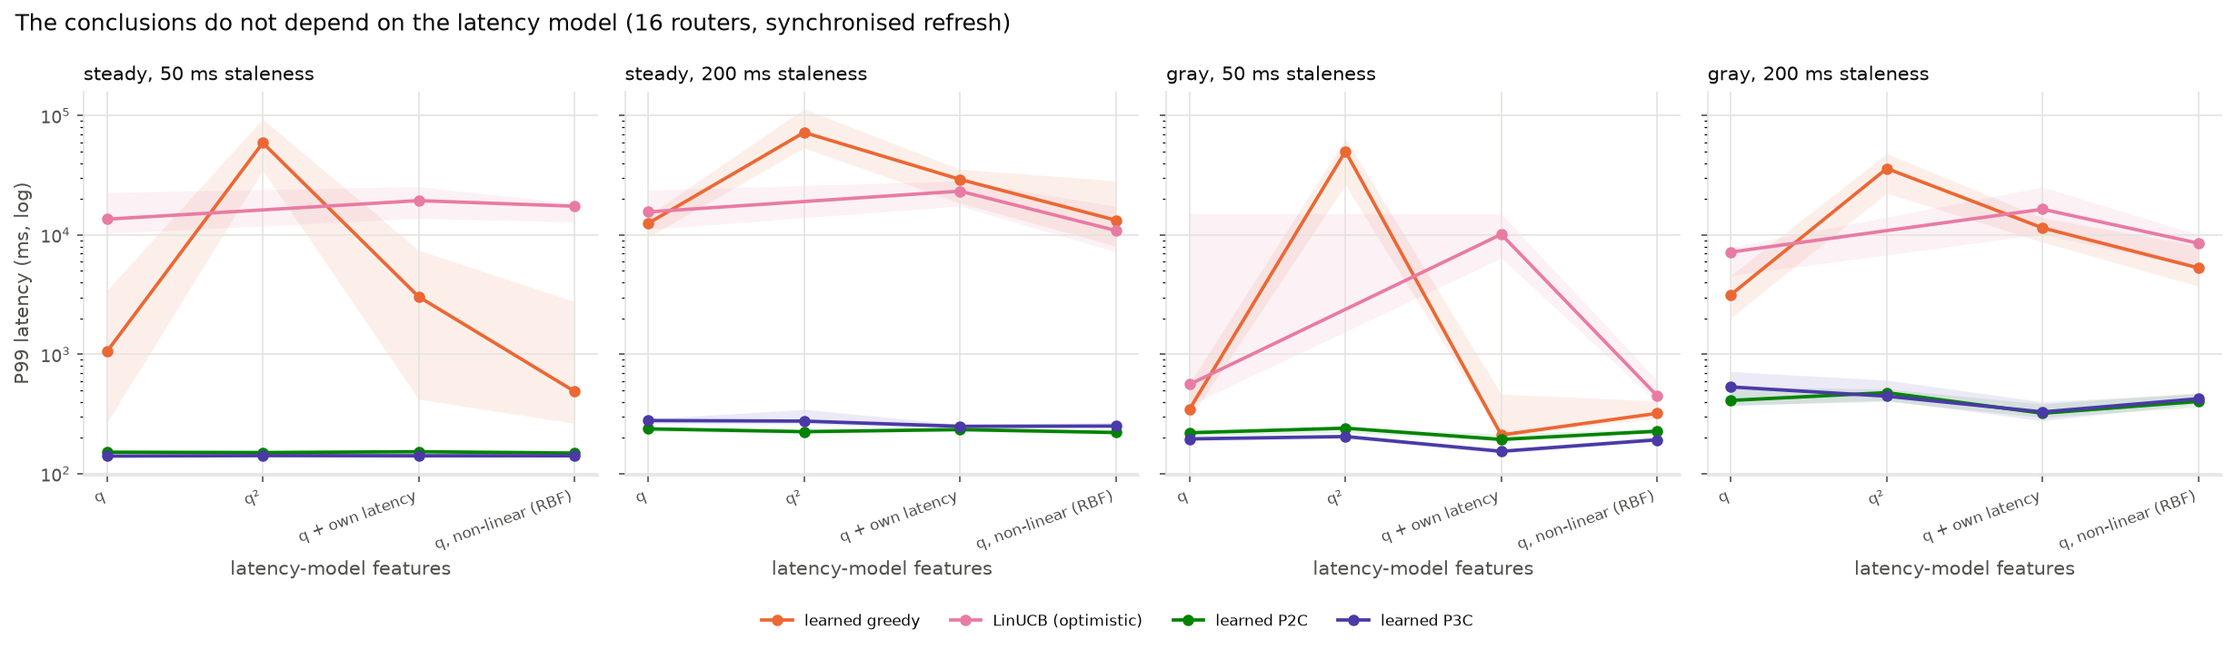
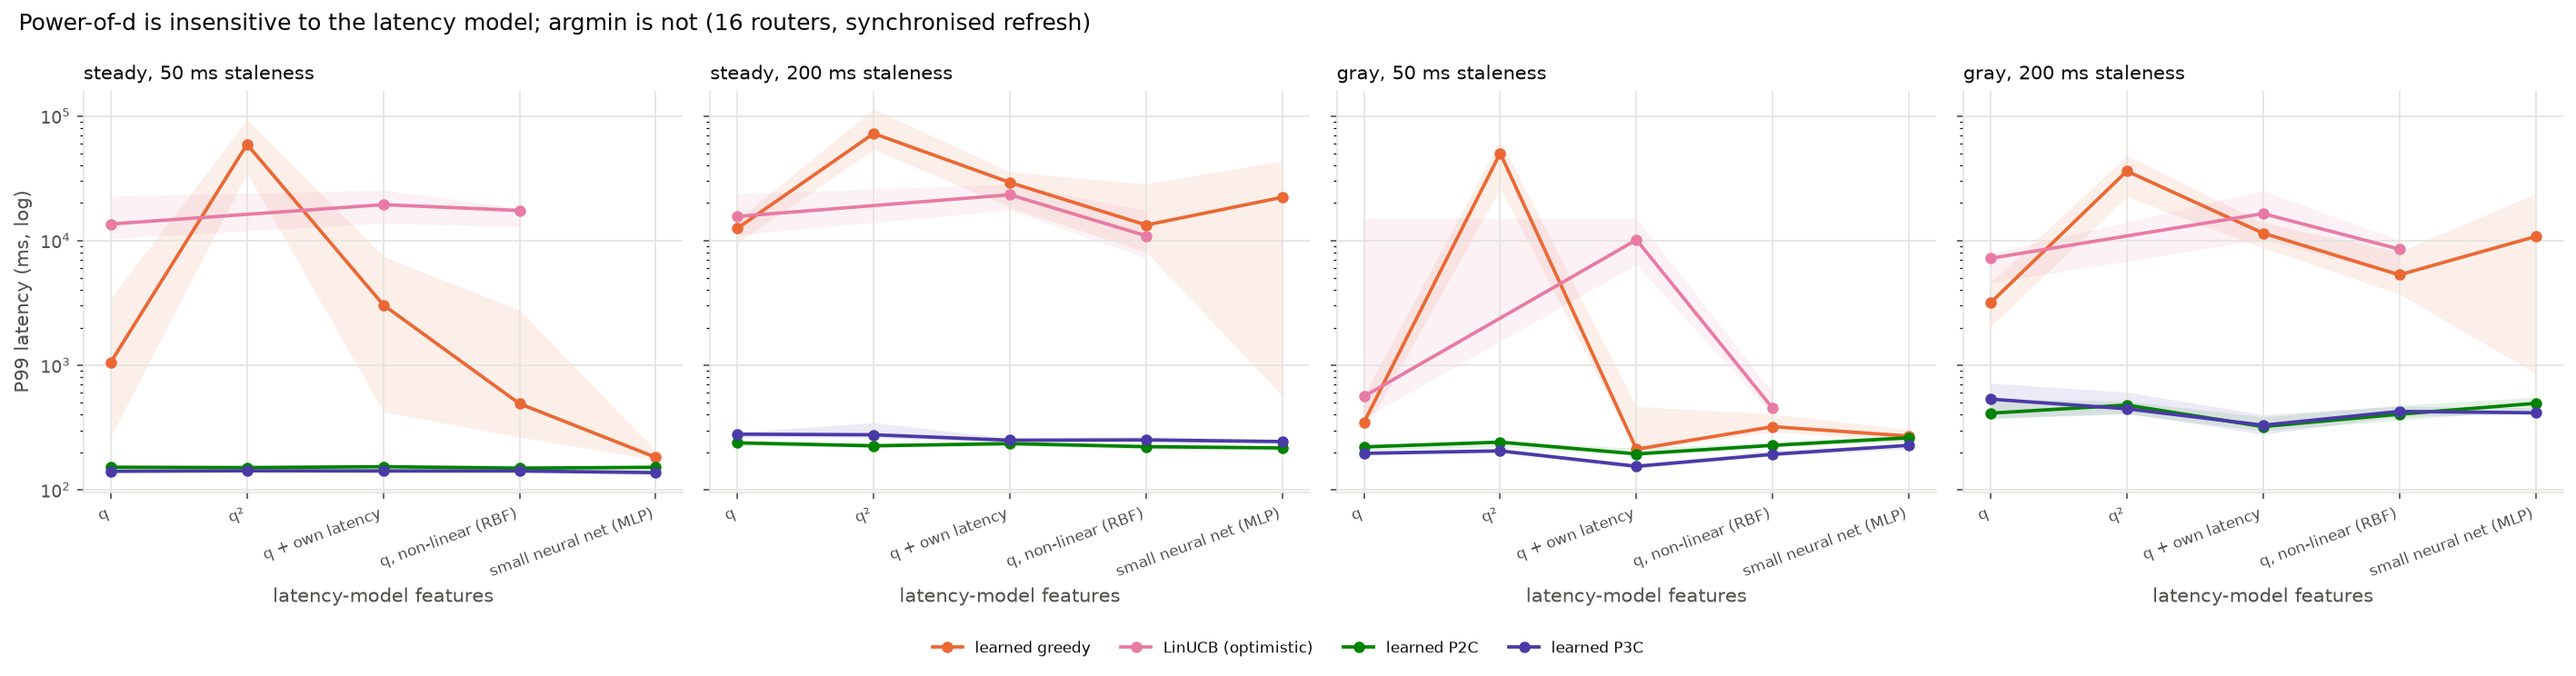
Neural-net learner result: correct 'learner is not the problem' claim, update ablation, figure title, README, tests
Claude-Session: https://claude.ai/code/session_016hoAwEeVxLn7p7QKGygUAR

diff --git a/paper/main.tex b/paper/main.tex
@@ -55,8 +55,8 @@ information \emph{herds}: every router picks the same server. We show that learn
 with 16 routers and 50\,ms-stale state, argmin routing on learned latency predictions has a P99 of 1.1\,s against 0.8\,s for
 join-the-shortest-queue, and 12.5\,s against 3.1\,s at 200\,ms. The cause is not the learner. A burst bound explains it: any policy that
 is a deterministic function of the shared snapshot sends a whole refresh window to one server, whereas restricting each request to candidates drawn
-independently of the snapshot caps a server's burst at $\kappa\lambda\Delta$; measured burst shares agree with both statements. Richer latency models
-(quadratic, non-linear, optimistic, a small neural network) do not remove herding and can worsen it. Learned power-of-$d$ routing does remove it: without probes it
+independently of the snapshot caps a server's burst at $\kappa\lambda\Delta$; measured burst shares agree with both statements. A richer latency model helps only in some regimes: a small neural network brings
+50\,ms-stale argmin P99 down to 0.18\,s, but it still herds with synchronised 200\,ms-stale state (22\,s median), and quadratic and optimistic variants make herding worse. Learned power-of-$d$ routing does remove it: without probes it
 keeps steady-state P99 between 108 and 282\,ms across 28 combinations of staleness, router count and refresh phase, and with three live probes it
 matches an oracle that knows every server's speed (84 vs.\ 83\,ms) and beats a Prequal-style prober at equal probe cost under a gray failure
 (112 vs.\ 144\,ms). In a case study of LLM serving with prefix caches, a locality-preserving variant avoids tuning an affinity threshold on synthetic
@@ -97,8 +97,8 @@ multi-process prototype\fi. Contributions:
 \begin{enumerate}
 \item \textbf{The failure and its cause.} Argmin routing on learned latency predictions herds \emph{worse} than JSQ under stale shared
   state, desynchronising refresh phases does not fix it once there are many routers, and a control-plane interval adds staleness of its own
-  (\cref{sec:eval-herding,sec:eval-epoch}). Richer models, optimism and a small neural network do not remove it
-  (\cref{sec:eval-models}). A burst bound explains why: a deterministic function of the snapshot sends a whole refresh window to one
+  (\cref{sec:eval-herding,sec:eval-epoch}). Richer models do not reliably remove it: a quadratic term and optimism make it worse, and a small neural network fixes mild staleness but not
+  synchronised 200\,ms-stale state (\cref{sec:eval-models}). A burst bound explains why: a deterministic function of the snapshot sends a whole refresh window to one
   server, while candidates drawn independently of the snapshot cap a server's burst at $\kappa_s\lambda\Delta$
   (\cref{sec:theory,sec:eval-burst}).
 \item \textbf{The remedy, and a comparison against probing.} Learned power-of-$d$ and an age-aware stochastic split keep tails flat across staleness,
@@ -357,7 +357,7 @@ hold only about 19 requests and sampling noise raises the busiest share.
 \label{sec:eval-models}
 A natural objection is that the learner is too simple. We repeat the
 comparison with a quadratic queue term, with the router's own smoothed latency
-for each server as a third feature, and with a non-linear radial-basis function of the queue length, and with an optimistic (LinUCB-style,
+for each server as a third feature, with a small neural network, and with a non-linear radial-basis function of the queue length, and with an optimistic (LinUCB-style,
 lower-confidence-bound) learner, at 50 and 200\,ms staleness with 16
 routers. \Cref{tab:models} summarises the steady-state results
 (\cref{fig:models} in the appendix has the full set).
@@ -376,17 +376,18 @@ queue only            & 1{,}055 & 151 / 141 & 12{,}537 & 238 / 279\\
 + queue$^2$           & 59{,}180 & 150 / 142 & 72{,}354 & 225 / 276\\
 + own latency         & 3{,}044 & 153 / 141 & 29{,}242 & 234 / 250\\
 + non-linear (RBF)    & 490 & 149 / 141 & 13{,}316 & 222 / 251\\
+small neural net      & 182 & 151 / 137 & 22{,}259 & 216 / 243\\
 LinUCB (queue)        & 13{,}568 & -- & 15{,}618 & --\\
 LinUCB (+ own lat.)& 19{,}418 & -- & 23{,}312 & --\\
 \bottomrule
 \end{tabular}
 \end{table}
 A richer model never rescues argmin routing, and the quadratic one makes it
-far worse, because its fit oscillates with the herding it causes. A non-linear fit helps argmin at 50\,ms (0.5\,s) but not at 200\,ms (13.3\,s). Optimism
-herds too (13.6\,s at 50\,ms). Power-of-$d$ ranges over 141--153\,ms at 50\,ms
-and 222--279\,ms at 200\,ms regardless of the model. This matches
+far worse, because its fit oscillates with the herding it causes. A non-linear fit helps argmin at 50\,ms (0.5\,s) but not at 200\,ms (13.3\,s). A small neural network (one hidden layer of 32 units over a one-hot server and the queue length, trained online with Adam on a replay buffer) is the best argmin learner at 50\,ms (0.18\,s) and survives unsynchronised 200\,ms state (0.37\,s, against 6.1\,s for the linear model), but with synchronised 200\,ms-stale state its median is 22\,s with an interquartile range from 0.6 to 44\,s: across seeds it sometimes herds and sometimes does not. So a better learner moves the boundary of the failure; it does not remove it. Optimism
+herds too (13.6\,s at 50\,ms). Power-of-$d$ ranges over 137--153\,ms at 50\,ms
+and 216--279\,ms at 200\,ms regardless of the model. This matches
 \cref{prop:stampede}: herding is a property of acting deterministically on
-common information, not of the learner.
+common information, which a better learner can postpone but not remove.
 
 \subsection{Control intervals are hidden staleness}
 \label{sec:eval-epoch}
@@ -691,9 +692,10 @@ intervals or not at all.
 
 \section{Limitations}
 Our backends are single-server FIFO queues; real backends are multi-core.
-Our latency models are linear, and although the quadratic, own-latency and
-optimistic variants do not change the conclusions, a deep model trained on
-rich request features might. The LLM-serving simulator models prefill
+Our default latency models are linear. Quadratic, own-latency, optimistic,
+non-linear and one small neural network do not remove herding, but the neural
+network moves its boundary (it handles 50\,ms-stale state), so a stronger model
+trained on rich request features might move it further; we did not test one. The LLM-serving simulator models prefill
 replicas only: there is no batching, no decode phase, no KV-cache memory
 pressure beyond a prefix count, and one load signal (queue length). Its
 synthetic constants (8{,}000 tokens/s, Zipf popularity) are plausible, not measured; the

diff --git a/research/analyze.py b/research/analyze.py
@@ -567,7 +567,7 @@ def models_section(out, df: pd.DataFrame) -> None:
         _axes_style(ax, "latency-model features", "P99 latency (ms, log)" if ax is axes[0] else "")
     h, l = axes[0].get_legend_handles_labels()
     fig.legend(h, l, frameon=False, fontsize=8, labelcolor=TEXT, loc="upper center", bbox_to_anchor=(0.5, 0.0), ncol=4)
-    fig.suptitle("The conclusions do not depend on the latency model (16 routers, synchronised refresh)",
+    fig.suptitle("Power-of-d is insensitive to the latency model; argmin is not (16 routers, synchronised refresh)",
                  color=TEXT, fontsize=12, x=0.01, ha="left")
     fig.tight_layout()
     fig.savefig(os.path.join(FIGURES, "fig14_models.png"), dpi=150, facecolor="white", bbox_inches="tight")

diff --git a/tests/test_research_sim.py b/tests/test_research_sim.py
@@ -233,3 +233,11 @@ def test_richer_features_are_recorded_and_learned():
     assert len(x) == 3 and x[0] == 1.0 and x[1] == float([3, 0][s])
     d.observe(s, 0.05, x, 0.1)
     assert d._ewma[s] == pytest.approx(5.0)    # latency 0.05 s / scale 0.01 s
+
+
+def test_mlp_learner_runs_deterministically_and_learns():
+    from research.sim import Scenario, simulate
+    sc = Scenario(staleness=0.05, num_dispatchers=4, duration=6.0, warmup=1.0)
+    a = simulate(sc, "p2c_learned_mlp", seed=1)
+    b = simulate(sc, "p2c_learned_mlp", seed=1)
+    assert a["p99_ms"] == b["p99_ms"] and a["p99_ms"] < 1000.0

diff --git a/research/results/summary.md b/research/results/summary.md
@@ -1141,6 +1141,7 @@
 | greedy_q2 | 59,180 [34,733–93,679] | 72,354 [53,727–113,777] |
 | greedy_ewma | 3,044 [421–7,470] | 29,242 [18,525–35,611] |
 | greedy_rbf | 490 [264–2,768] | 13,316 [8,066–28,511] |
+| greedy_mlp | 182 [173–205] | 22,259 [564–43,663] |
 | linucb | 13,568 [10,322–22,724] | 15,618 [11,140–23,706] |
 | linucb_ewma | 19,418 [13,765–25,415] | 23,312 [17,500–28,454] |
 | linucb_rbf | 17,432 [12,877–18,320] | 10,918 [7,225–17,447] |
@@ -1148,10 +1149,12 @@
 | p2c_learned_q2 | 150 [145–155] | 225 [218–234] |
 | p2c_learned_ewma | 153 [145–157] | 234 [226–242] |
 | p2c_learned_rbf | 149 [142–159] | 222 [212–228] |
+| p2c_learned_mlp | 151 [144–154] | 216 [210–224] |
 | p3c_learned | 141 [137–145] | 279 [262–288] |
 | p3c_learned_q2 | 142 [139–146] | 276 [261–346] |
 | p3c_learned_ewma | 141 [136–146] | 250 [239–259] |
 | p3c_learned_rbf | 141 [137–143] | 251 [248–269] |
+| p3c_learned_mlp | 137 [132–141] | 243 [231–249] |
 | ts | 201 [186–220] | 2,585 [1,208–8,497] |
 
 ## Model ablation, steady, unsynchronised refresh, 16 routers: P99 (ms)
@@ -1162,6 +1165,7 @@
 | greedy_q2 | 49,446 [25,445–72,059] | 53,902 [40,747–70,511] |
 | greedy_ewma | 1,168 [174–3,469] | 13,808 [6,121–18,059] |
 | greedy_rbf | 176 [165–274] | 7,845 [3,843–9,573] |
+| greedy_mlp | 152 [147–156] | 372 [323–17,904] |
 | linucb | 14,921 [2,337–16,289] | 27,260 [15,955–38,506] |
 | linucb_ewma | 19,761 [16,280–20,850] | 19,018 [15,688–37,666] |
 | linucb_rbf | 400 [229–22,138] | 29,451 [18,018–47,907] |
@@ -1169,10 +1173,12 @@
 | p2c_learned_q2 | 144 [138–149] | 198 [188–206] |
 | p2c_learned_ewma | 146 [141–150] | 193 [190–204] |
 | p2c_learned_rbf | 142 [136–147] | 197 [194–201] |
+| p2c_learned_mlp | 143 [137–145] | 197 [186–200] |
 | p3c_learned | 125 [120–128] | 202 [190–208] |
 | p3c_learned_q2 | 130 [123–134] | 204 [195–216] |
 | p3c_learned_ewma | 126 [123–127] | 197 [190–204] |
 | p3c_learned_rbf | 124 [119–129] | 193 [188–198] |
+| p3c_learned_mlp | 126 [121–130] | 187 [181–195] |
 | ts | 158 [153–167] | 349 [330–378] |
 
 ## Model ablation, gray, synchronised refresh, 16 routers: P99 (ms)
@@ -1183,6 +1189,7 @@
 | greedy_q2 | 50,306 [26,195–63,975] | 36,085 [22,439–48,124] |
 | greedy_ewma | 211 [205–464] | 11,464 [8,720–13,945] |
 | greedy_rbf | 321 [293–407] | 5,304 [3,720–8,110] |
+| greedy_mlp | 270 [243–304] | 10,770 [857–23,921] |
 | linucb | 561 [375–15,117] | 7,199 [4,578–7,905] |
 | linucb_ewma | 10,134 [6,416–15,065] | 16,451 [10,176–25,220] |
 | linucb_rbf | 450 [397–605] | 8,531 [5,216–10,040] |
@@ -1190,10 +1197,12 @@
 | p2c_learned_q2 | 241 [221–246] | 478 [404–513] |
 | p2c_learned_ewma | 194 [189–216] | 321 [296–385] |
 | p2c_learned_rbf | 227 [220–239] | 403 [361–476] |
+| p2c_learned_mlp | 261 [245–276] | 493 [441–552] |
 | p3c_learned | 196 [189–202] | 533 [371–717] |
 | p3c_learned_q2 | 205 [197–214] | 446 [412–608] |
 | p3c_learned_ewma | 154 [148–158] | 329 [278–400] |
 | p3c_learned_rbf | 192 [187–208] | 425 [387–468] |
+| p3c_learned_mlp | 227 [212–232] | 414 [406–455] |
 | ts | 254 [245–265] | 4,780 [1,091–8,393] |
 
 ## Model ablation, gray, unsynchronised refresh, 16 routers: P99 (ms)
@@ -1204,6 +1213,7 @@
 | greedy_q2 | 48,831 [21,126–92,906] | 58,527 [36,403–93,505] |
 | greedy_ewma | 171 [164–181] | 3,298 [1,121–5,381] |
 | greedy_rbf | 219 [213–249] | 896 [646–2,204] |
+| greedy_mlp | 222 [214–229] | 478 [436–676] |
 | linucb | 425 [308–4,693] | 11,795 [9,986–17,888] |
 | linucb_ewma | 8,590 [6,448–16,244] | 12,964 [10,132–21,187] |
 | linucb_rbf | 6,538 [733–13,808] | 10,880 [9,304–14,232] |
@@ -1211,10 +1221,12 @@
 | p2c_learned_q2 | 224 [212–236] | 376 [305–430] |
 | p2c_learned_ewma | 189 [185–204] | 295 [255–315] |
 | p2c_learned_rbf | 217 [214–231] | 308 [291–338] |
+| p2c_learned_mlp | 255 [237–273] | 360 [335–401] |
 | p3c_learned | 169 [162–175] | 283 [265–299] |
 | p3c_learned_q2 | 176 [174–180] | 294 [283–336] |
 | p3c_learned_ewma | 140 [134–145] | 224 [216–255] |
 | p3c_learned_rbf | 176 [171–179] | 299 [284–315] |
+| p3c_learned_mlp | 198 [193–201] | 320 [305–340] |
 | ts | 199 [194–210] | 829 [469–1,896] |
 
 ## Probe-cost frontier (steady, K=16, staleness 0.05s, synchronised)

diff --git a/research/README.md b/research/README.md
@@ -29,11 +29,12 @@ Unless stated otherwise: 16 routers, queueing model, ρ = 0.9, P99 latency.
    random 0.22 (cap 0.20), P2C 0.26 (cap 0.25), learned P2C 0.25, learned P3C
    0.32 (cap 0.375); learned greedy 0.43 and Thompson 0.46 sit in between
    because per-router models disagree.
-3. **The learner is not the problem.** A quadratic queue term, the router's own
+3. **A better learner moves the failure, it does not remove it.** A quadratic queue term, the router's own
    latency history, and an optimistic (LinUCB-style) learner do not fix argmin
    herding and can make it much worse (greedy 1.1 s → 59 s with the quadratic
-   term). Power-of-d is insensitive to the model: 141–153 ms at 50 ms staleness
-   for every feature set.
+   term). A small neural network is the best argmin learner at 50 ms (0.18 s, vs. 1.06 s linear) and handles
+   unsynchronised 200 ms state (0.37 s), but with synchronised 200 ms state its median is 22 s (IQR 0.6–44 s).
+   Power-of-d is insensitive to the model: 137–153 ms at 50 ms staleness for every model.
 4. **Control intervals are hidden staleness.** Recomputing weights every 150 ms
    (as `src/agent.py` does) gives 204 ms even with live state, against 72 ms per
    request, and 800 ms at a 500 ms interval.
@@ -112,7 +113,7 @@ PYTHONPATH=. pytest -q
 
 - Single-server FIFO backends. The LLM model has no batching, no decode phase,
   and one load signal; its constants are plausible, not measured on a trace.
-- Linear latency models (the variants tested do not change the conclusions).
+- Default latency models are linear; the non-linear and one small neural variant move, but do not remove, the herding boundary. No stronger model was tested.
 - The Prequal baseline is a re-implementation from the paper's description.
 - The age-aware split needs the number of routers and an estimate of the total
   arrival rate.
